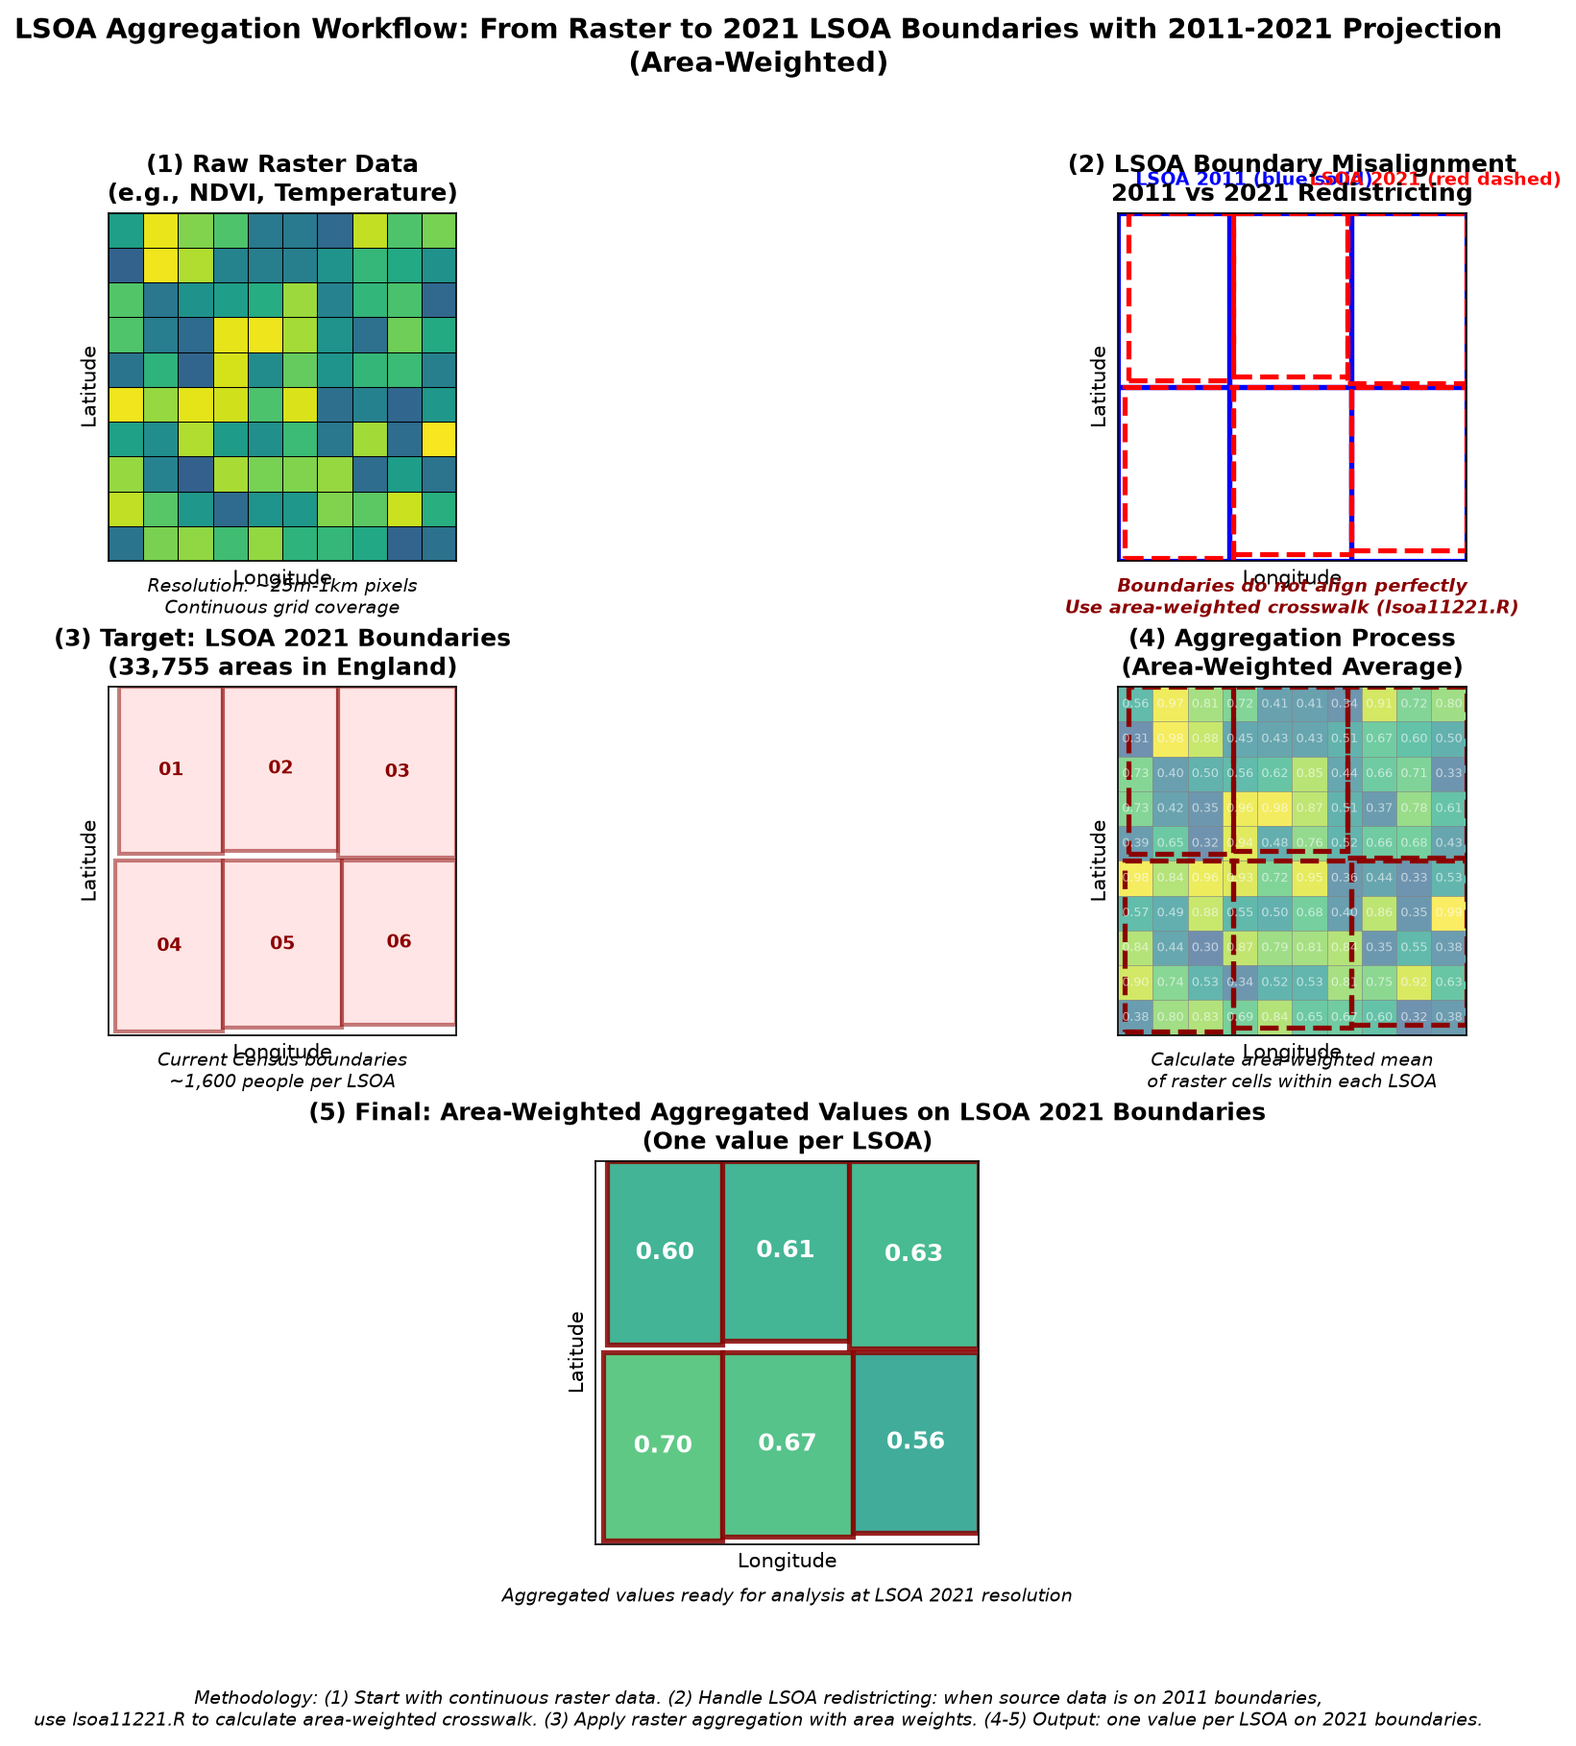
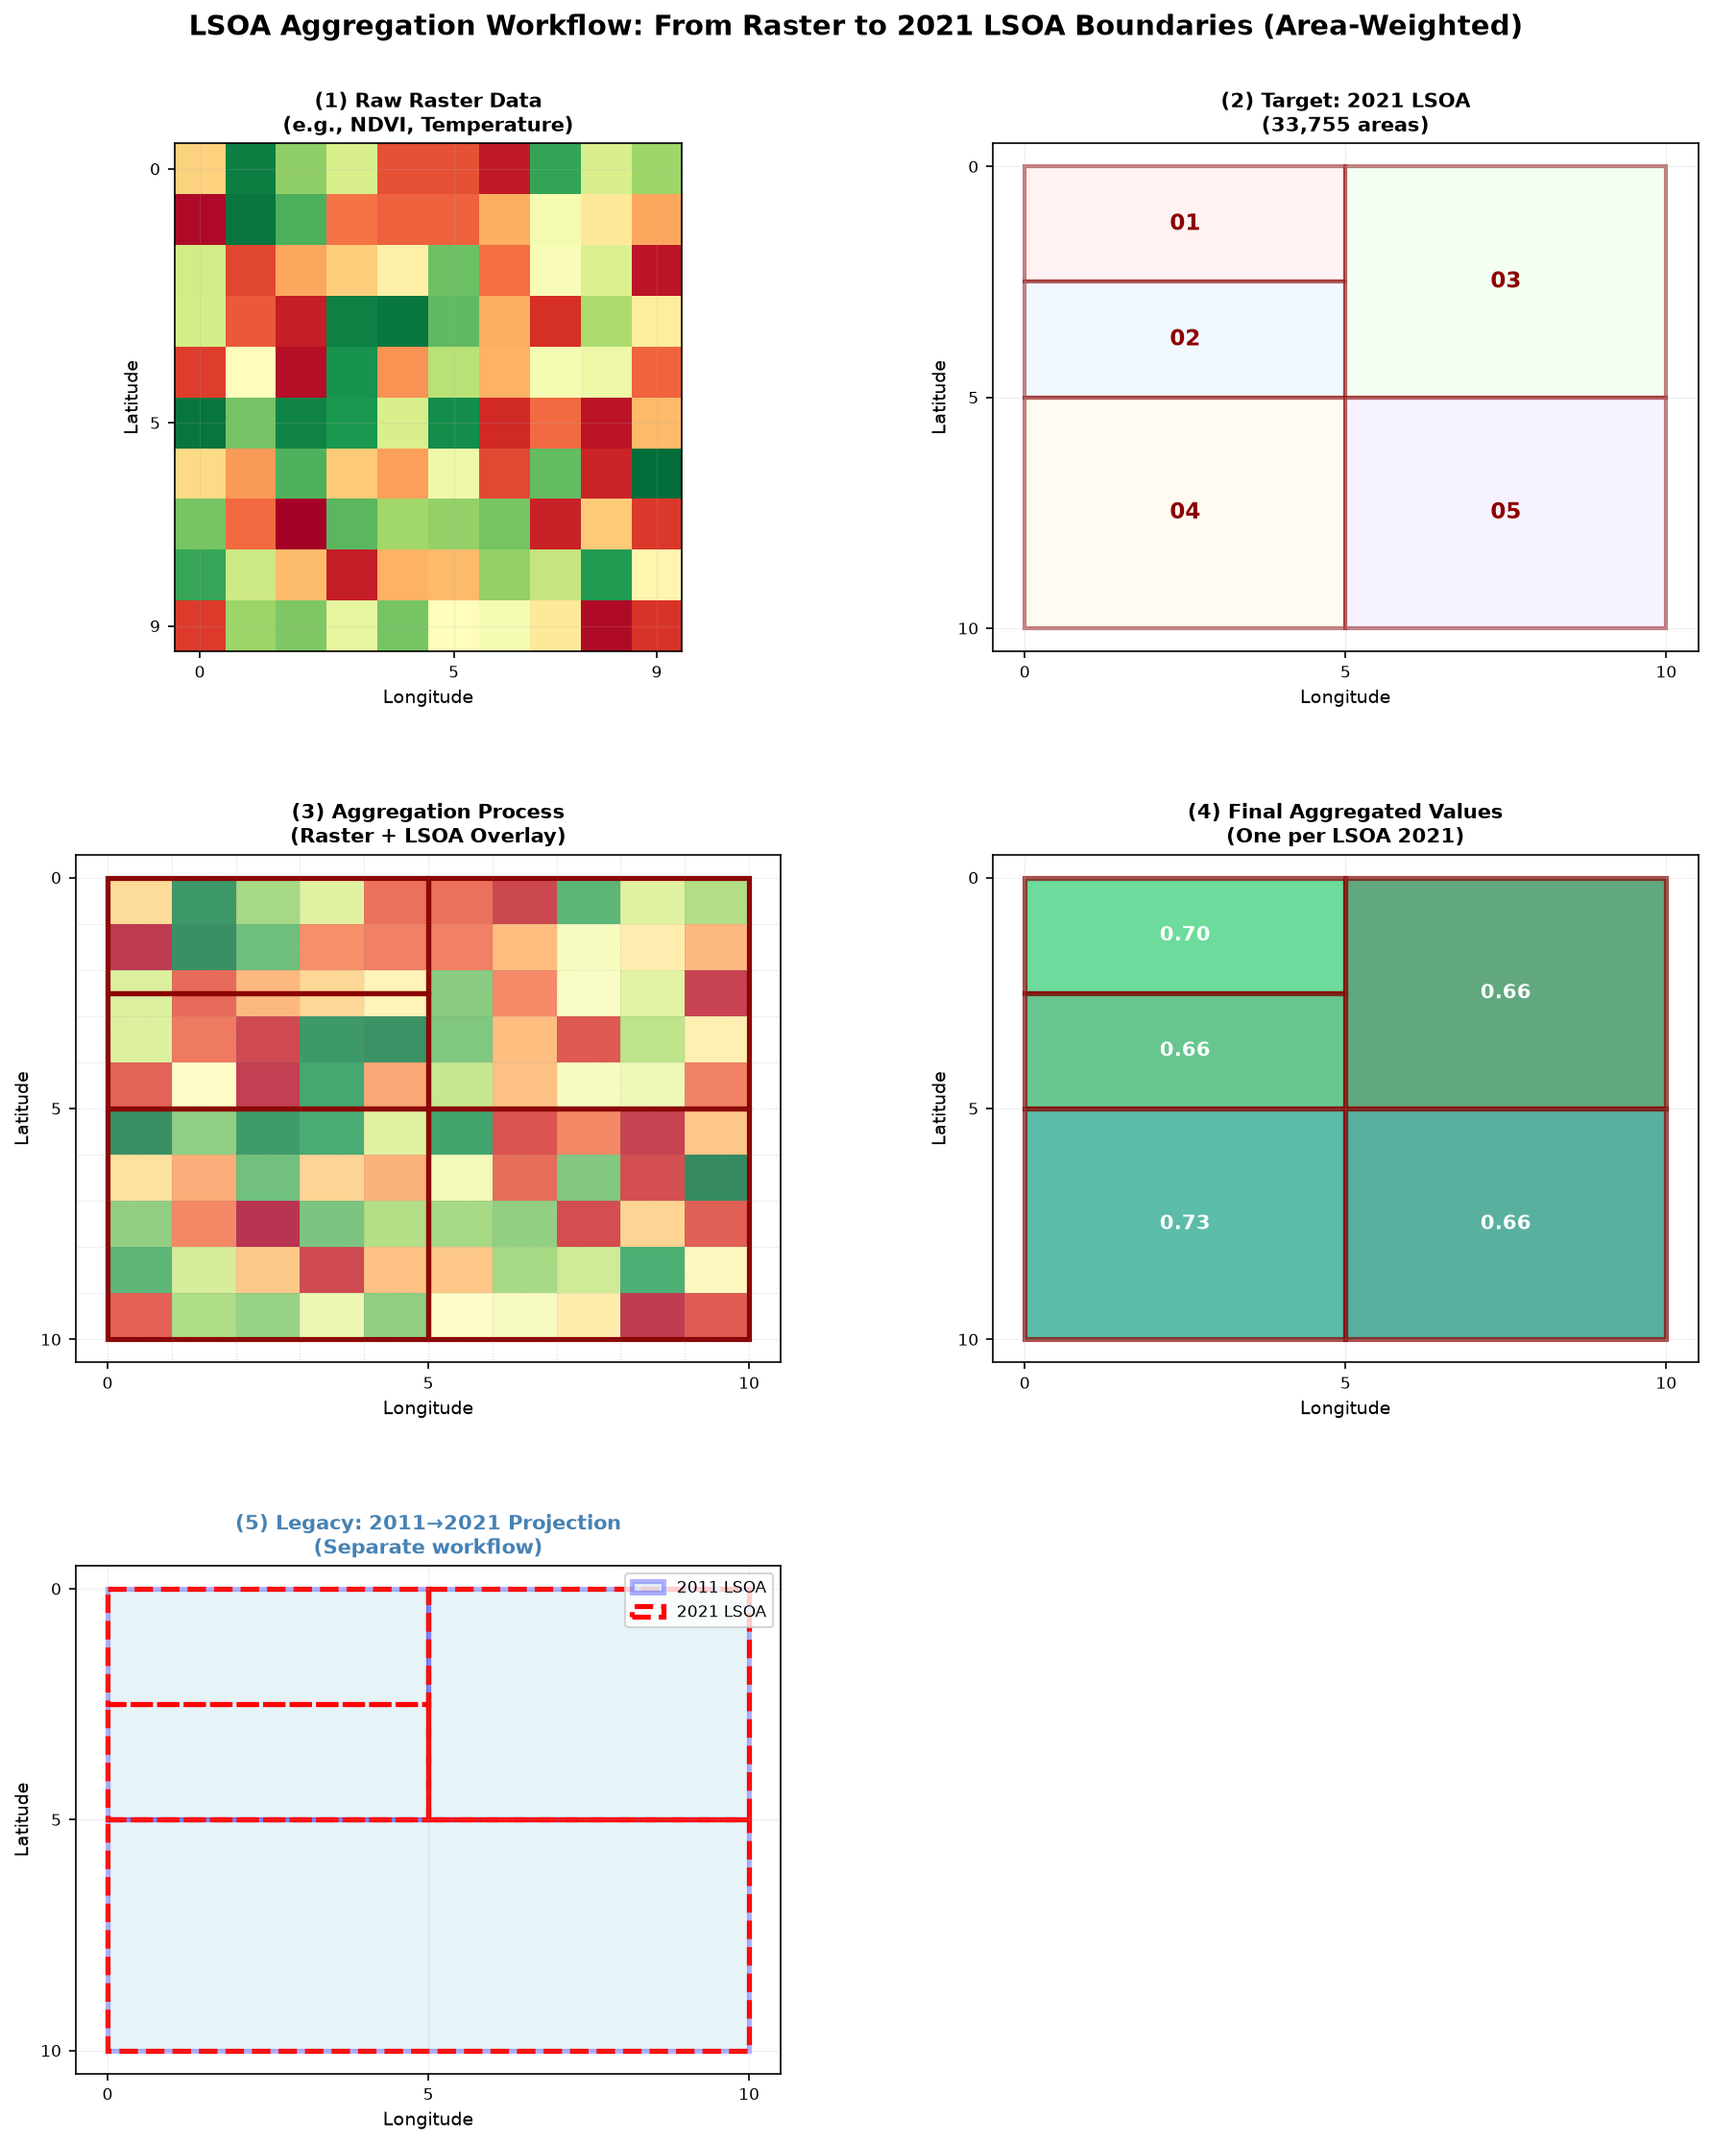
Update LSOA aggregation workflow figure and enhance methodology description in README

diff --git a/README.md b/README.md
@@ -10,7 +10,7 @@ The NDVI maps below are retained as example figures showing normalized differenc
 
 ### Animated NDVI Time Series (2003–2020)
 
-<figure style="width: 70%; max-width: 800px; margin: 20px auto;">
+<figure style="width: 50%; max-width: 800px; margin: 20px auto;">
   <img src="figure/ndvi_animation.gif" alt="Animated NDVI maps showing vegetation change from 2003 to 2020" style="width: 100%; height: auto; display: block; border: 1px solid #ddd;">
   <figcaption><strong>Animation:</strong> Normalized Difference Vegetation Index (NDVI) aggregated to LSOA boundaries, 2003–2020. Loop duration: 1 second per frame.</figcaption>
 </figure>
@@ -18,9 +18,16 @@ The NDVI maps below are retained as example figures showing normalized differenc
 ### LSOA Aggregation Workflow
 
 <figure style="width: 100%; margin: 20px 0;">
-  <img src="figure/lsoa_aggregation_workflow.png" alt="Five-panel diagram explaining the LSOA aggregation process and 2011-2021 projection" style="width: 100%; height: auto; display: block; border: 1px solid #ddd;">
-  <figcaption><strong>Figure 2:</strong> LSOA aggregation workflow from raster to 2021 LSOA boundaries. (Panel 1) Raw raster data with continuous spatial variation. (Panel 2) LSOA boundary misalignment: blue solid lines show 2011 boundaries; red dashed lines show 2021 boundaries. Where source data uses 2011 boundaries, <code>lsoa11221.R</code> or <a href="lsoa11221.py"><code>lsoa11221.py</code></a> computes area-weighted crosswalks to project onto 2021 boundaries. (Panel 3) Target LSOA 2021 administrative boundaries (33,755 areas in England). (Panel 4) Aggregation process with raster cell values overlaid on LSOA polygons. (Panel 5) Final area-weighted aggregated values, one per LSOA on 2021 boundaries. Raster cells are weighted by their intersection area with each LSOA polygon. This workflow figure was generated using Python (<code>matplotlib</code>, <code>geopandas</code>); a similar visualization can be reproduced by adapting the boundary-loading and aggregation logic from <a href="lsoa11221.py"><code>lsoa11221.py</code></a> and <a href="air_extract.py"><code>air_extract.py</code></a>.</figcaption>
+  <img src="figure/lsoa_aggregation_workflow.png" alt="Five-panel diagram showing direct raster-to-2021-LSOA aggregation and separate 2011-2021 projection workflow" style="width: 100%; height: auto; display: block; border: 1px solid #ddd;">
+  <figcaption><strong>Figure 2:</strong> LSOA aggregation workflow. <strong>Main workflow (Panels 1–4):</strong> Continuous raster data (NDVI, temperature, air pollution) is aggregated directly to 2021 LSOA boundaries without intermediate projection. (Panel 1) Raw raster grid. (Panel 2) Target 2021 LSOA boundaries (33,755 areas in England). (Panel 3) Overlay of raster cells on LSOA polygons. (Panel 4) Final aggregated values computed as area-weighted means of raster cells within each LSOA, ready for analysis. <strong>Alternative workflow (Panel 5):</strong> For legacy data already on 2011 LSOA boundaries, <code>lsoa11221.R</code> or <a href="lsoa11221.py"><code>lsoa11221.py</code></a> computes area-weighted crosswalks to project onto 2021 boundaries; shown here because 2011 and 2021 boundaries misalign (one 2011 LSOA may split into multiple 2021 LSOAs). This workflow figure was generated using Python (<code>matplotlib</code>, <code>geopandas</code>); a similar visualization can be reproduced by adapting the boundary-loading and aggregation logic from <a href="lsoa11221.py"><code>lsoa11221.py</code></a> and <a href="air_extract.py"><code>air_extract.py</code></a>.</figcaption>
 </figure>
+
+**Aggregation methodology:** The main workflow applies area-weighted aggregation directly to raster data:
+- For each LSOA polygon, compute the weighted mean of all raster cells that intersect it
+- Weight each cell by its intersection area with the LSOA
+- This approach assumes uniform within-LSOA distribution and is appropriate for continuous measures like NDVI, temperature, and air quality indices
+
+**Legacy data projection:** When data are pre-aggregated to 2011 LSOA boundaries (e.g., historical population counts), use the separate projection workflow shown in Panel 5. LSOA boundaries changed between 2011 and 2021 censuses; one 2011 LSOA may now be split into multiple 2021 LSOAs. The crosswalk matrices computed by <a href="lsoa11221.py"><code>lsoa11221.py</code></a> allocate 2011 data proportionally by intersection area, ensuring historical datasets are harmonized to current boundaries.
 
 ## Repository layout
 
